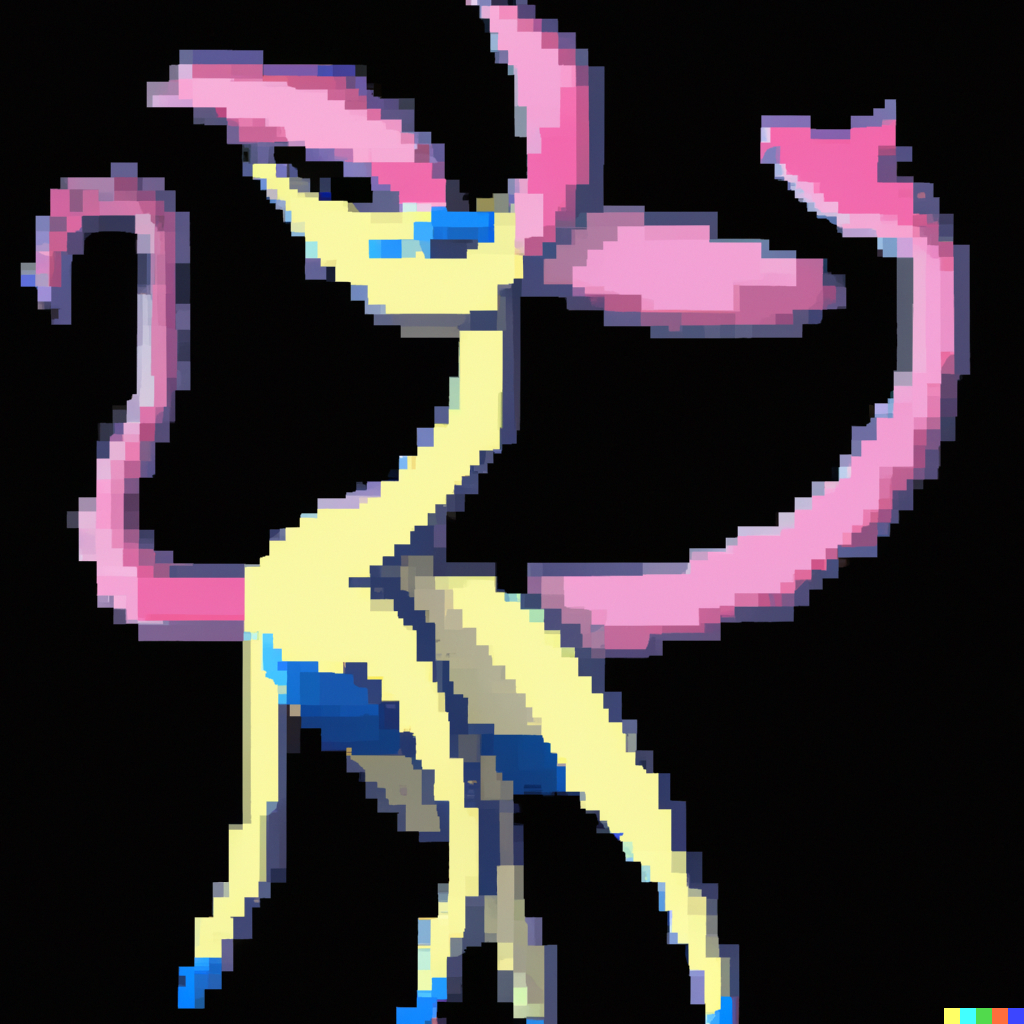
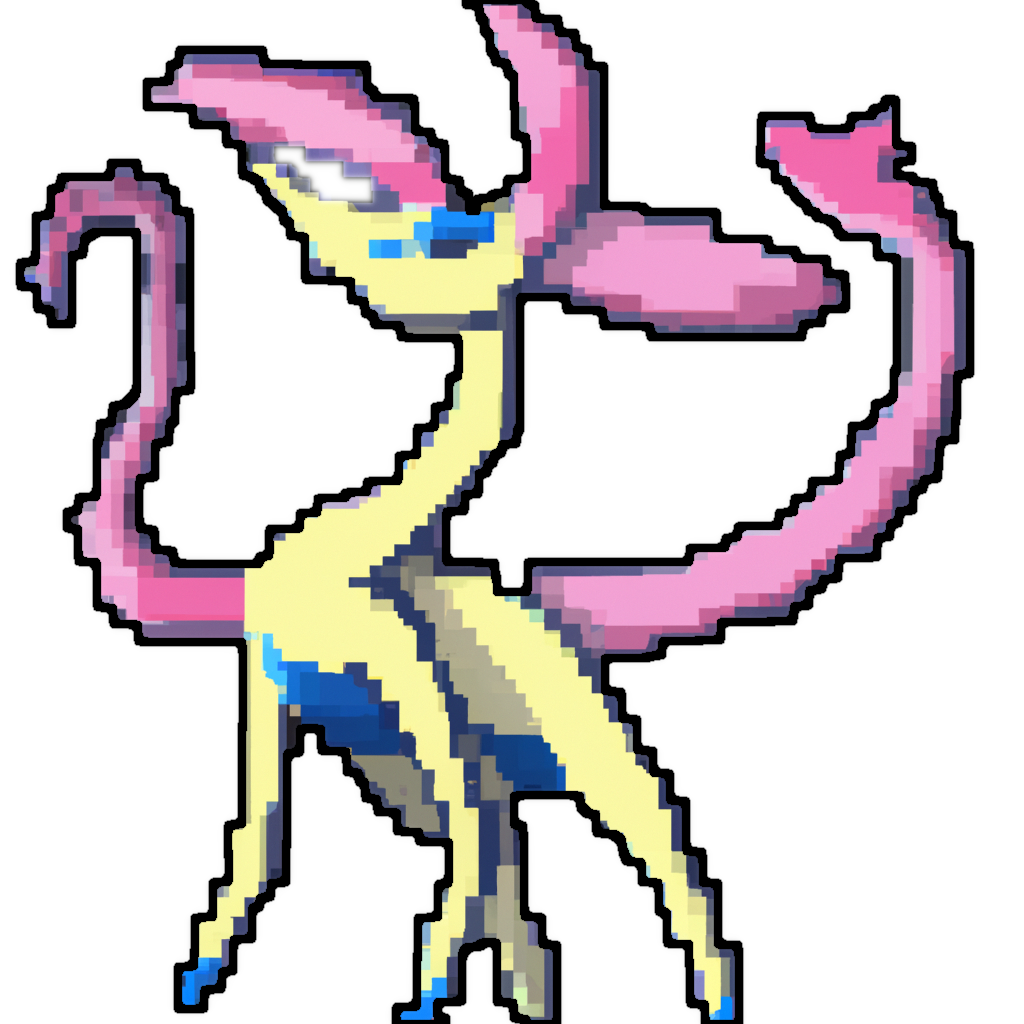
モンスター画像の背景透過

diff --git a/src/app/components/templates/GameDisplay.tsx b/src/app/components/templates/GameDisplay.tsx
@@ -374,7 +374,7 @@ function GameDisplay() {
   );
   const ririppo = new Monster("リリッポ", 100, "ririppo", "つつく", 3, 1200);
   const torubo = new Monster("トルボ", 140, "torubo", "突進", 19, 3500);
-  const baranda = new Monster(
+  const baranbiruda = new Monster(
     "バランビルダ",
     275,
     "baranbiruda",
@@ -527,12 +527,12 @@ function GameDisplay() {
     await write("まずい");
     await write("あたりが暗くなってきた");
     await write("あ！");
-    await appear(baranda);
+    await appear(baranbiruda);
     await write("こいつは強敵だ");
     await write("数々の勇者がここで倒れてきた");
     await write("勝とう");
     await write("(スペースキーで戦闘が開始します)");
-    await fight(baranda);
+    await fight(baranbiruda);
     await write("バランビルダを倒した！");
 
     setStage("stage-swaps");
